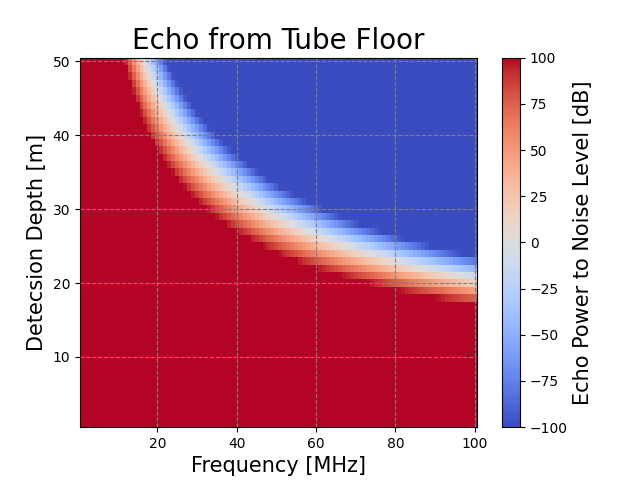
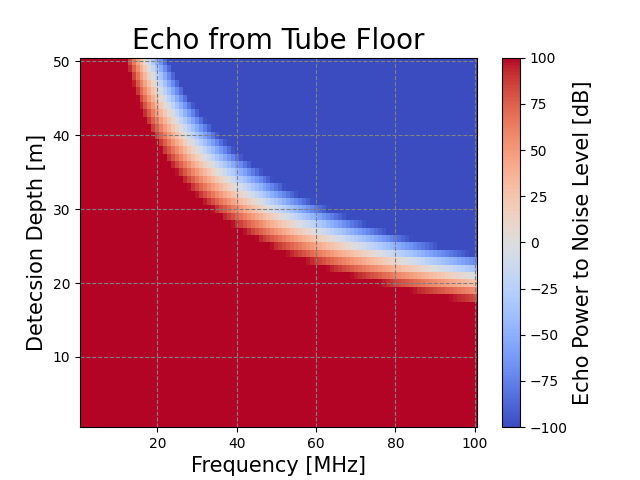
レーダー断面積変更

Changed region(s): [[0.2188, 0.2188, 0.75, 0.6562], [0.1875, 0.125, 0.2188, 0.2188]]

diff --git a/recieved_power.py b/recieved_power.py
@@ -6,7 +6,7 @@ from matplotlib.colors import Normalize
 epsilon_1 = 4.0
 epsilon_0 = 1
 losstangent = 0.01
-RCS = 1.0
+RCS = 30.0
 #レーダーパラメータ
 P_t = 800 #[W]
 P_min = 1e-12 #[W]
